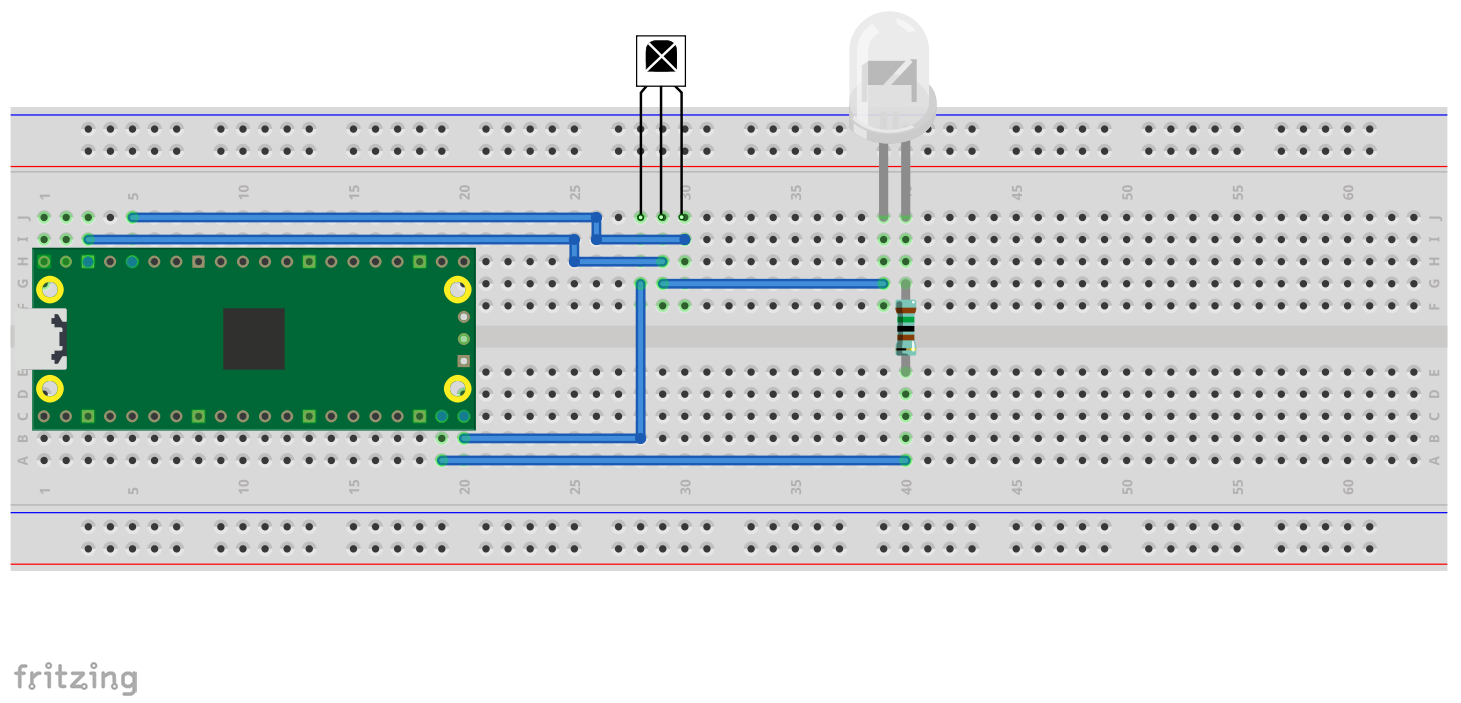
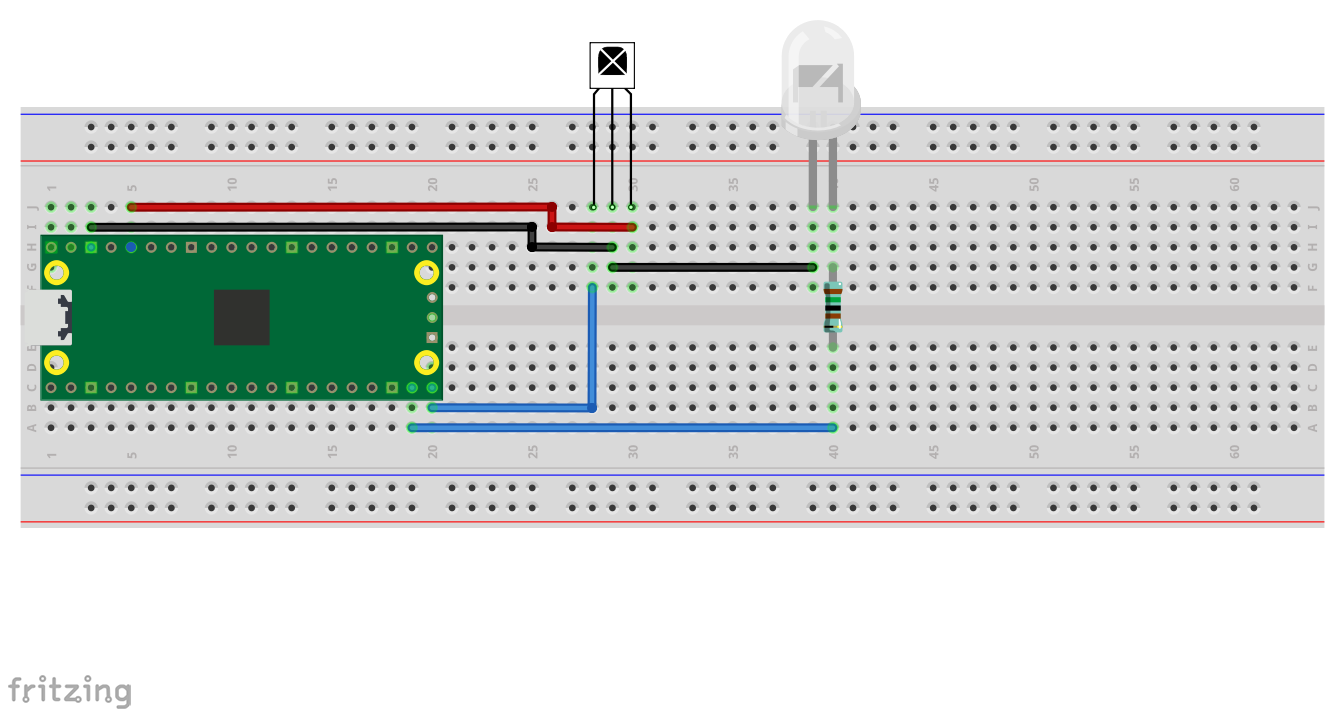
incorporate review comments
- README.adoc
Clarify that the wavelength of the IR LED should be compatible with the
detector used;
Correct the number of jumper wires in the BOM.

- Wiring diagram
Use red wire for +3v3 and black for GND.

- Fritzing source file
Fix having added the wrong file.

- ir_loopback/ir_loopback.c
Correct typo in comment.

- nec_receive_library/nec_receive.pio
Amend comment to clarify that the provided 'init' function sets the
state machine clock divider relative to the system clock.
Amend comment to clarify that the 'init' function sets up the ISR as
described.

Changed region(s): [[0.0, 0.0299, 1.0, 0.8364], [0.0, 0.9559, 0.1226, 1.0], [0.5822, 0.0896, 0.6435, 0.1494]]

diff --git a/pio/ir_nec/ir_loopback/ir_loopback.c b/pio/ir_nec/ir_loopback/ir_loopback.c
@@ -13,7 +13,7 @@
 // Infrared loopback example ('NEC' format)
 //
 // Need to connect an IR LED to GPIO 14 via a suitable series resistor (e.g. 1.5k)
-// and an ective-low IR detector to GPIO 15 (e.g. VS1838b)
+// and an active-low IR detector to GPIO 15 (e.g. VS1838b)
 //
 // Output is sent to stdout
 
